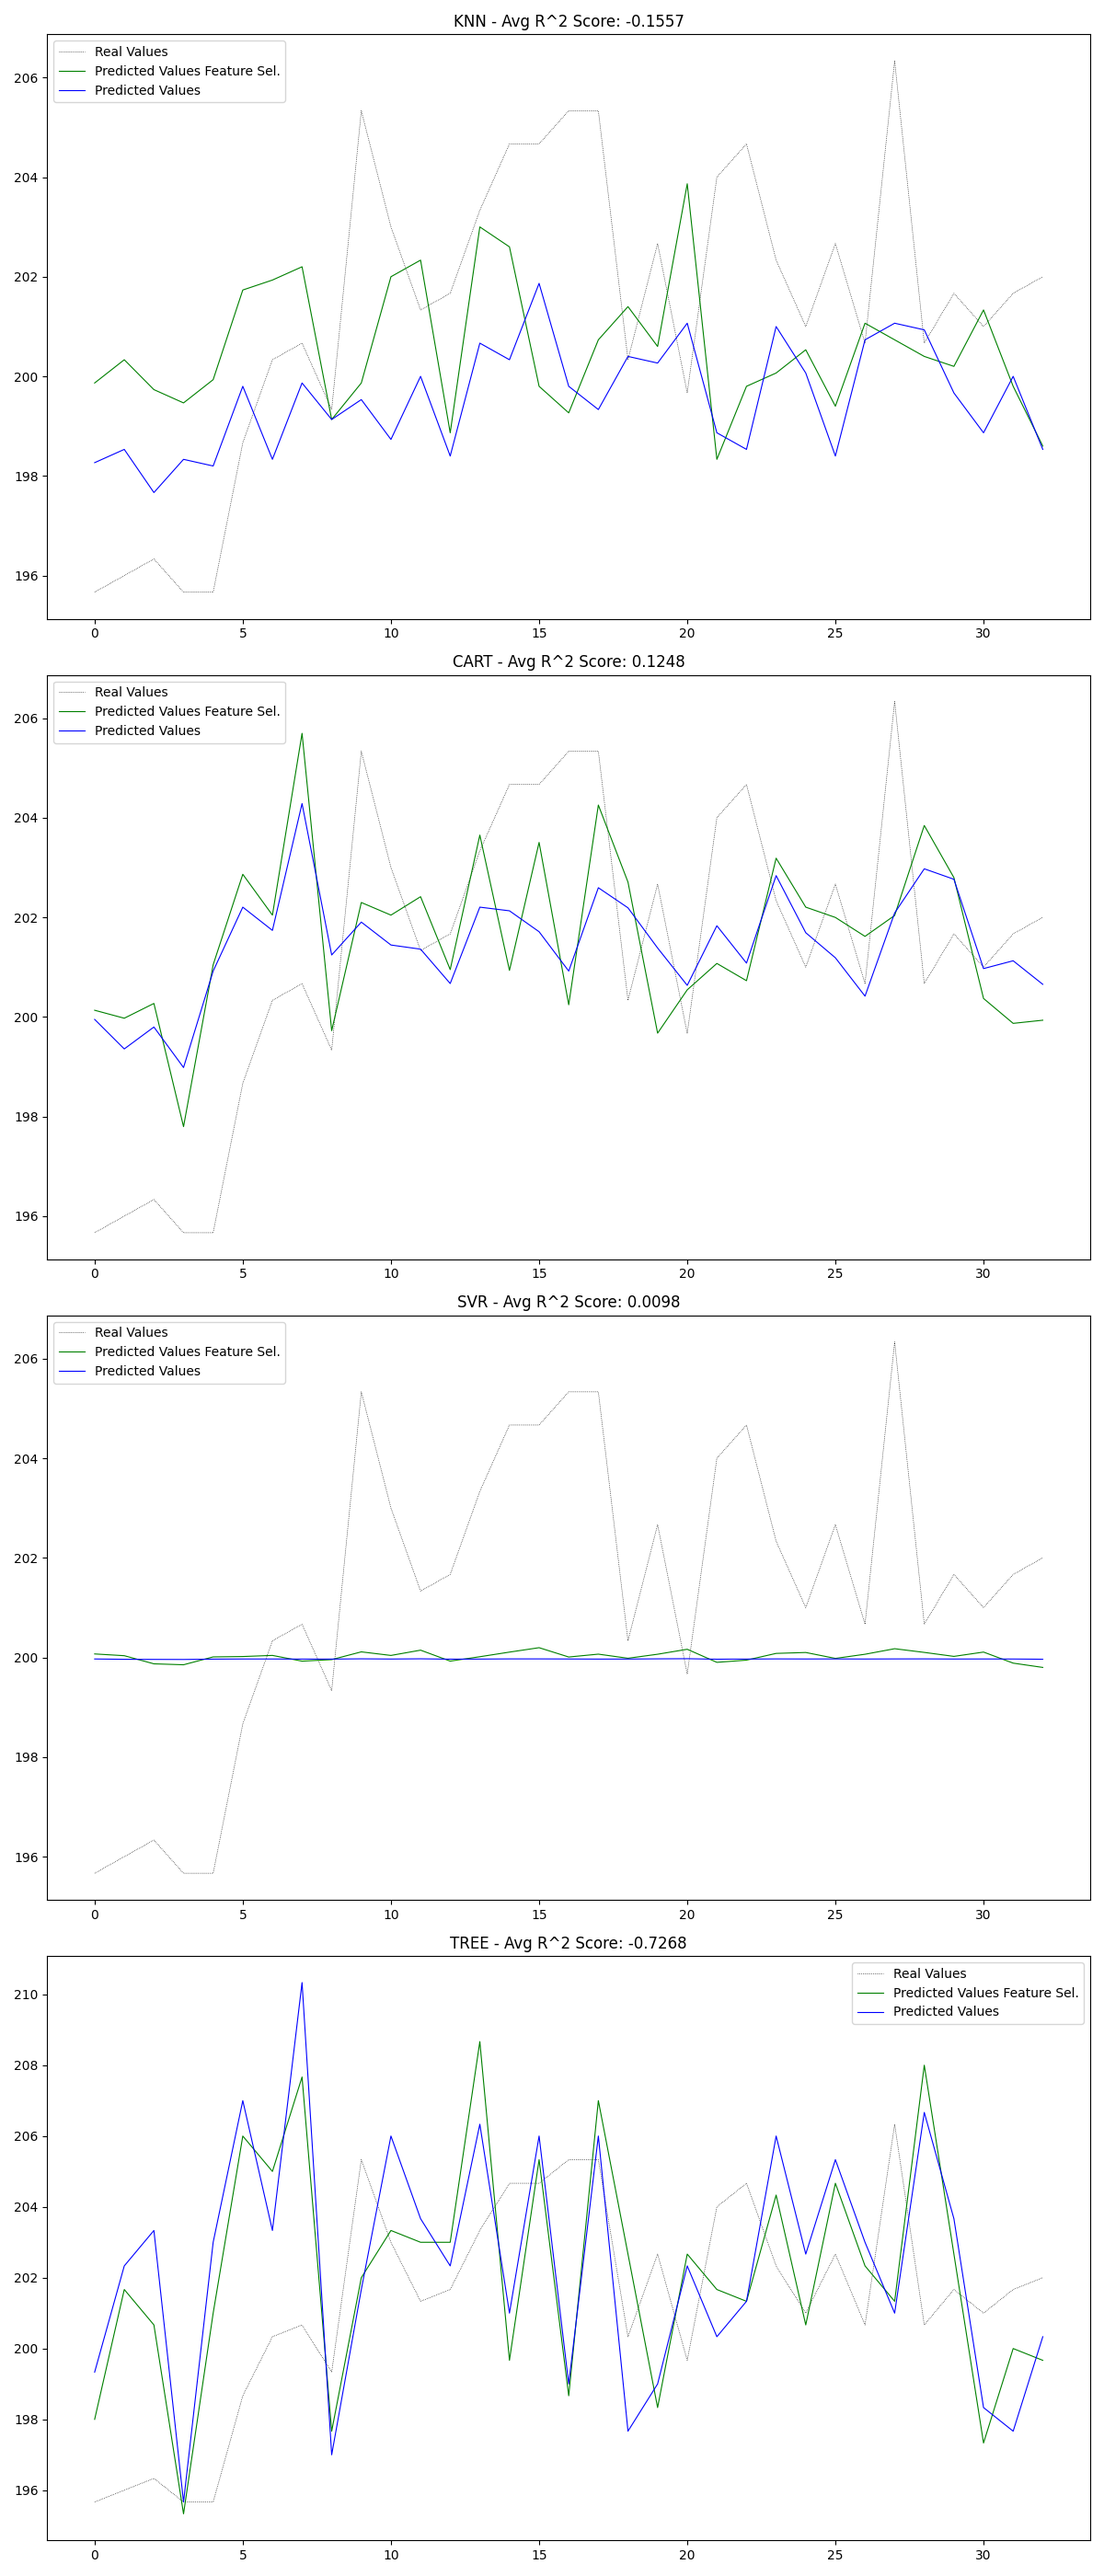
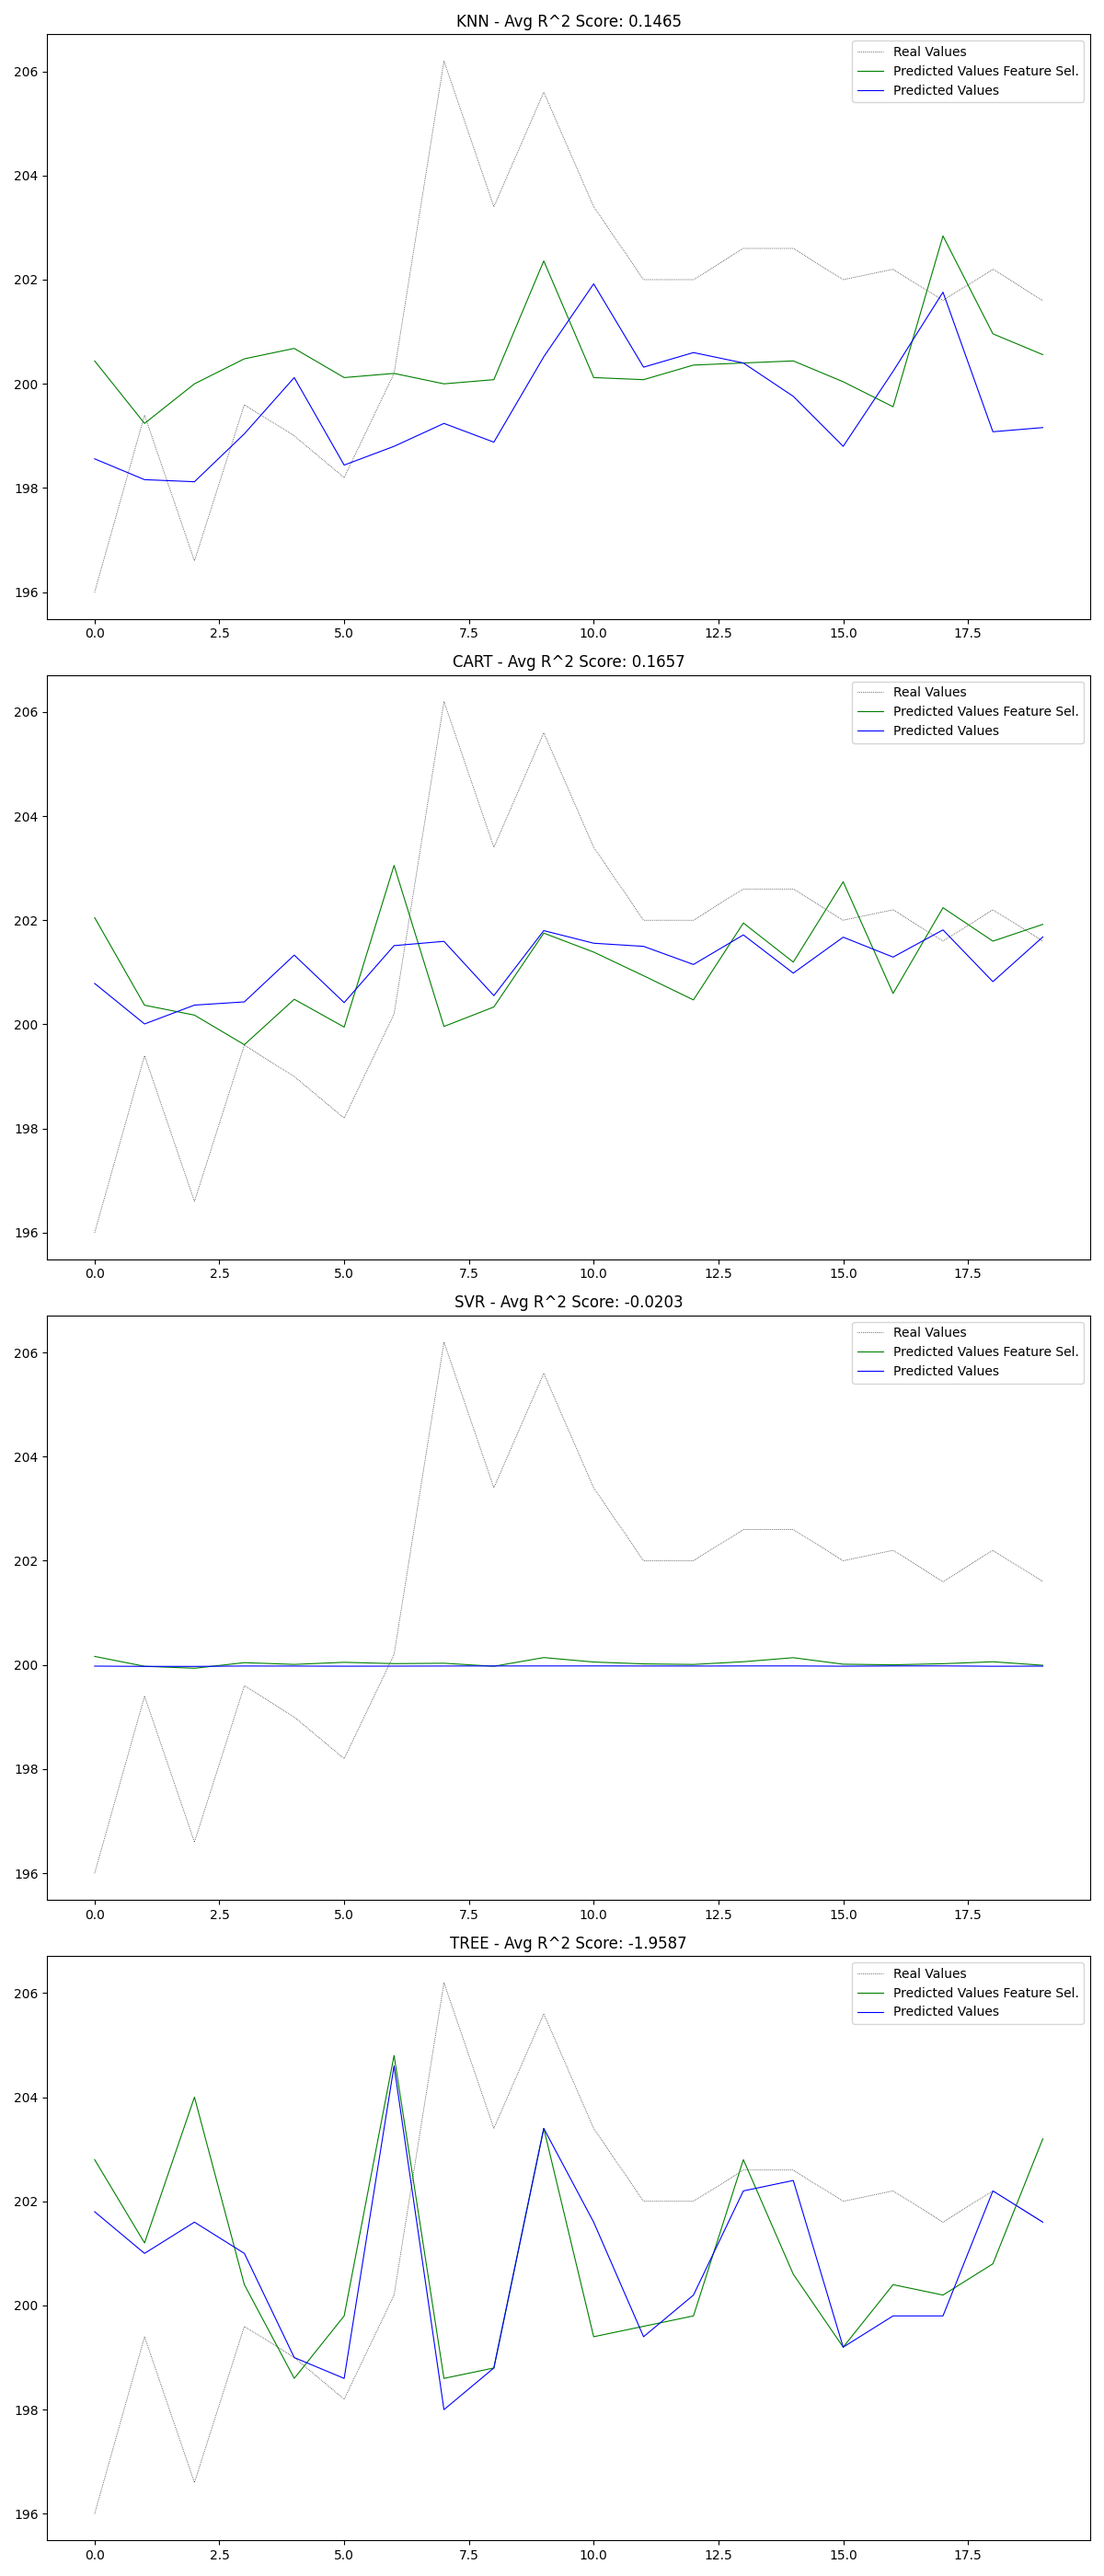
add ttest for exp 1

diff --git a/evaluation_part_1.py b/evaluation_part_1.py
@@ -1,5 +1,6 @@
 from helpers.import_data import import_data
 import numpy as np
+from tabulate import tabulate
 from helpers.feature_selection import FeatureSelection
 from sklearn.model_selection import RepeatedStratifiedKFold, RepeatedKFold
 from helpers.loggers import configureLogger
@@ -18,6 +19,7 @@ from helpers.evaluation import Evaluator
 from sklearn.tree import DecisionTreeRegressor
 from helpers.feature_selection import FeatureSelection
 import matplotlib.pyplot as plt
+from scipy.stats import ttest_rel
 from tqdm import tqdm
 import warnings
 import pandas as pd
@@ -53,15 +55,21 @@ def main(number):
     data = data.reshape(100, 300)
     results = results[:, number]
 
-    rfk = RepeatedKFold(n_splits=3, n_repeats=2, random_state=42)
+    rfk = RepeatedKFold(n_splits=5, n_repeats=2, random_state=42)
     fig, axes = plt.subplots(nrows=len(clfs), ncols=1, figsize=(12, 7 * len(clfs)))
+
+    r2_exp = np.zeros(shape=(len(clfs), 2 * 5))
+    r2_exp_fs = np.zeros(shape=(len(clfs), 2 * 5))
+
     for i, (clf_name, clf_model) in enumerate(clfs.items()):
         fold_y_pred = []
         fold_y_pred_fs = []
         fold_y_test = []
+        fold_y_r2 = []
         fold_y_test_fs = []
+        fold_y_r2_fs = []
 
-        for train_index, test_index in rfk.split(data, results):
+        for fold_idx, (train_index, test_index) in enumerate(rfk.split(data, results)):
             X_train, X_test = data[train_index], data[test_index]
             scaler = StandardScaler()
             X_train = scaler.fit_transform(X_train)
@@ -77,6 +85,8 @@ def main(number):
             r2_score_metric = r2_score(y_test, y_pred)
             fold_y_pred.append(y_pred)
             fold_y_test.append(y_test)
+            fold_y_r2.append(r2_score_metric)
+            r2_exp[i, fold_idx] = r2_score_metric
 
             fs = FeatureSelection(RANDOM_STATE)
             fs.fit(X_train_fs, y_train)
@@ -86,9 +96,11 @@ def main(number):
             clf_fs = clf_model
             clf_fs.fit(X_train_t, y_train)
             y_pred_fs = clf_fs.predict(X_test_t)
-            r2_score_metric = r2_score(y_test_fs, y_pred_fs)
+            r2_score_metric_fs = r2_score(y_test_fs, y_pred_fs)
             fold_y_pred_fs.append(y_pred_fs)
             fold_y_test_fs.append(y_test_fs)
+            fold_y_r2_fs.append(r2_score_metric_fs)
+            r2_exp_fs[i, fold_idx] = r2_score_metric_fs
 
         dimensions = [arr.shape[0] for arr in fold_y_pred]
         min_dimension = min(dimensions)
@@ -136,6 +148,22 @@ def main(number):
     plt.tight_layout()
     plt.savefig(f"img/basic_regressors_{parameters[number]}.png")
 
+    data = []
+    headers = ["clfs"]
+    headers.append(f"statistic | p_value")
+    for j in range(len(clfs)):
+        row_data = [f"{list(clfs.keys())[j]}"]
+        result = ttest_rel(r2_exp[j, :], r2_exp_fs[j, :])
+        row_data.extend(
+            [
+                f"{round(result[0],3)} [{result.statistic > 0}] | {round(result[1],3)} [{result.pvalue < 0.05}]",
+            ]
+        )
+        data.append(row_data)
+    table = tabulate(data, headers, tablefmt="grid")
+    with open(f"results/basic_regressors_{parameters[number]}.txt", "w") as file:
+        file.write(table)
+
 
 if __name__ == "__main__":
-    main(0)
+    main(3)
